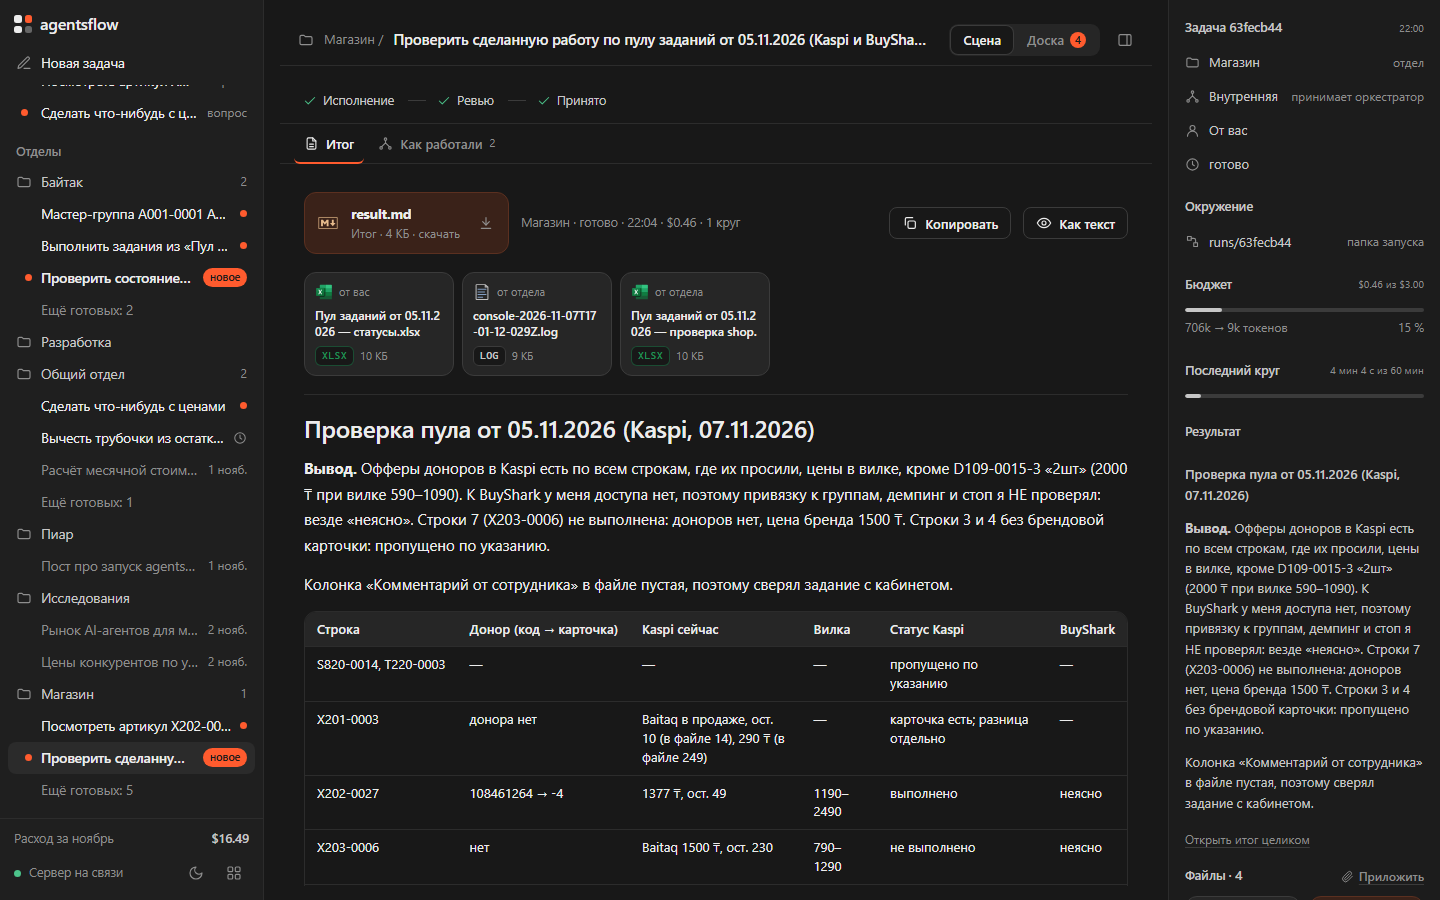
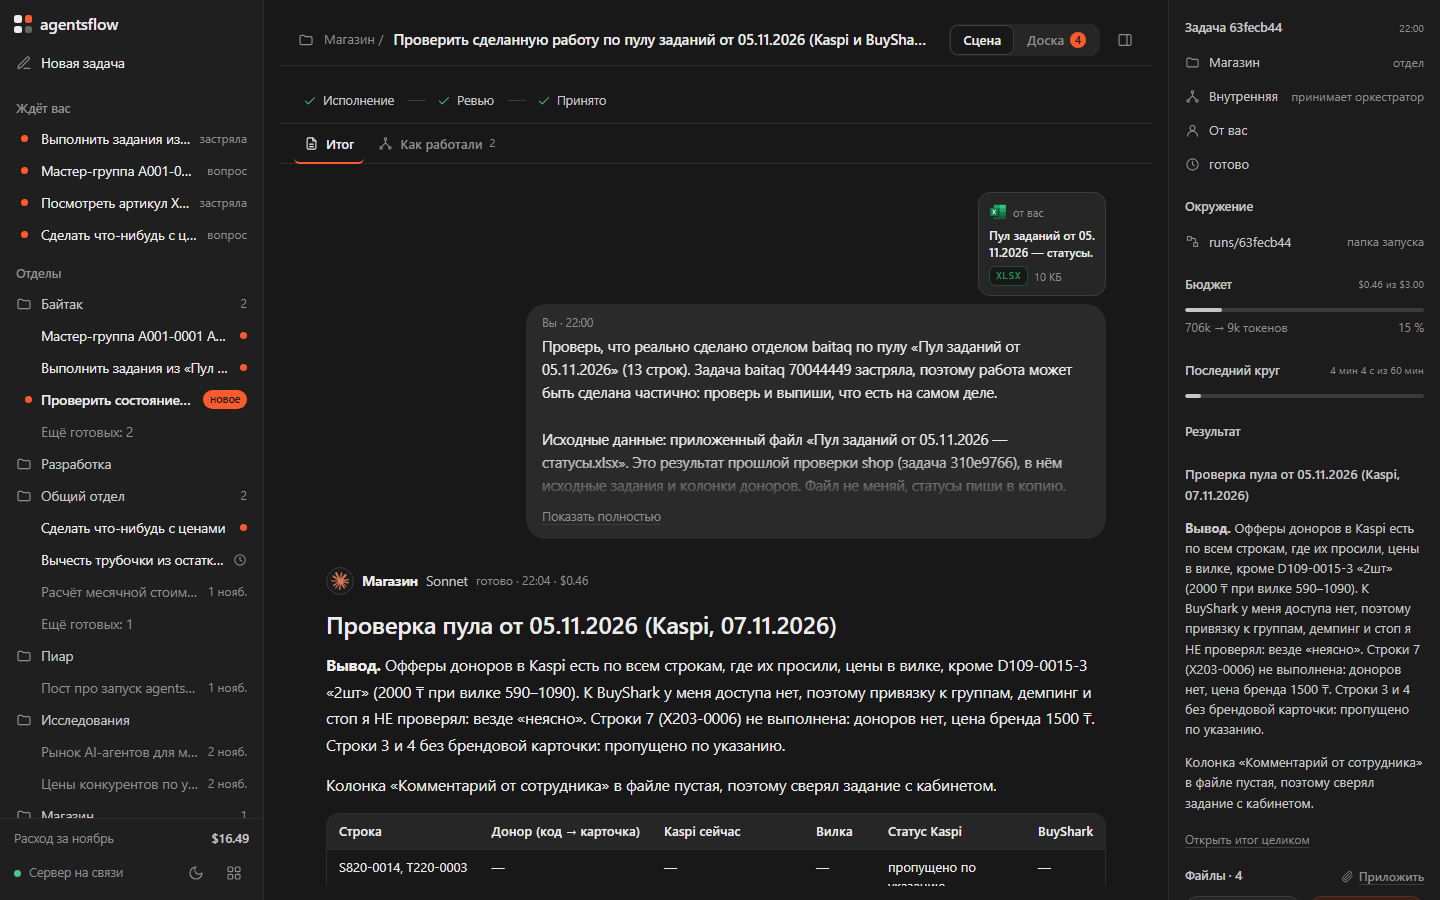
Result tab as a chat, like ChatGPT and Claude
The result no longer shows as "result.md": the request sits in a bubble
on the right with the owner's files, the department's answer follows with
its avatar, tables and headings, then file cards (the result as a
document named after its heading) and a row of actions: copy, download,
how the agents worked. The result downloads under the task's title.

diff --git a/web/index.html b/web/index.html
@@ -707,6 +707,36 @@
   .sc-card.sc-unread .sc-card-t { font-weight: 650; }
   @media (max-width: 880px) { .sc-result { padding: 18px 16px 32px; } .sc-doc-files .sc-att { width: calc(50% - 4px); } }
   @media (prefers-reduced-motion: reduce) { .sc-doc-file:hover { transform: none; } }
+  /* The result as a chat turn: the request bubble, the answer, file cards, actions. */
+  .sc-chat { max-width: 780px; margin: 0 auto; display: grid; gap: 28px; }
+  .sc-turn-ask { display: grid; justify-items: end; gap: 8px; }
+  .sc-ask-files { display: flex; flex-wrap: wrap; gap: 8px; justify-content: flex-end; }
+  .sc-ask-bubble { max-width: min(580px, 88%); background: var(--bubble); border-radius: 20px; padding: 10px 16px 12px; font-size: 14.5px; line-height: 1.6; color: var(--ink); }
+  .sc-ask-from { font-size: 11.5px; color: var(--muted); margin-bottom: 2px; }
+  .sc-ask-text { white-space: pre-wrap; overflow-wrap: anywhere; }
+  .sc-ask-bubble .sc-link { margin-top: 4px; font-size: 12.5px; }
+  .sc-turn-ans { display: grid; gap: 14px; min-width: 0; }
+  .sc-ans-who { display: flex; align-items: center; gap: 8px; flex-wrap: wrap; font-size: 13.5px; }
+  .sc-ans-av { width: 28px; height: 28px; border-radius: 50%; border: 1px solid var(--line-2); background: var(--panel); display: grid; place-items: center; flex: none; }
+  .sc-ans-who span { color: var(--ink-2); }
+  .sc-ans-who small { color: var(--muted); font-size: 12px; }
+  .sc-turn-ans .sc-doc { border-top: 0; padding-top: 0; font-size: 15.5px; line-height: 1.72; }
+  .sc-fcards { display: grid; grid-template-columns: repeat(auto-fill, minmax(320px, 1fr)); gap: 10px; }
+  .sc-fcard { display: flex; align-items: center; gap: 12px; min-width: 0; padding: 12px 14px; border: 1px solid var(--line-2); border-radius: 14px; background: var(--panel); color: var(--ink); text-decoration: none; transition: transform .15s ease, border-color .15s ease, background-color .15s ease; }
+  .sc-fcard:hover { transform: translateY(-1px); border-color: var(--muted); background: var(--hover); }
+  .sc-fcard:focus-visible { outline: 2px solid var(--accent); outline-offset: 2px; }
+  .sc-fcard-ic { flex: none; width: 40px; height: 40px; border-radius: 10px; display: grid; place-items: center; color: #fff; background: #6b6b6b; }
+  .sc-fcard-ic .sc-g { width: 20px; height: 20px; color: #fff; }
+  .sc-fk-sheet { background: #1f8f55; } .sc-fk-doc { background: var(--accent); } .sc-fk-pdf { background: #d0443a; } .sc-fk-image { background: #2f7bd6; } .sc-fk-code { background: #b07a12; }
+  .sc-fcard-t { flex: 1; min-width: 0; display: grid; gap: 1px; }
+  .sc-fcard-t b { font-size: 13.5px; font-weight: 600; line-height: 1.35; overflow-wrap: anywhere; display: -webkit-box; -webkit-line-clamp: 2; -webkit-box-orient: vertical; overflow: hidden; }
+  .sc-fcard-t small { font-size: 12px; color: var(--muted); }
+  .sc-fcard-dl { flex: none; width: 30px; height: 30px; border-radius: 8px; border: 1px solid var(--line-2); display: grid; place-items: center; color: var(--ink-2); }
+  .sc-fcard-dl .sc-g { width: 15px; height: 15px; }
+  .sc-ans-acts { display: flex; gap: 2px; margin-left: -6px; }
+  .sc .sc-act-ib:hover { color: var(--ink); background: var(--hover); }
+  .sc .sc-act-ib .sc-g { width: 16px; height: 16px; }
+  @media (prefers-reduced-motion: reduce) { .sc-fcard:hover { transform: none; } }
 </style>
 </head>
 <body>
@@ -3649,6 +3679,7 @@ function scFileUrl(task, path, inline) {
 // A downloadable tile: the whole tile downloads, the eye opens text, pictures and PDF in a tab.
 function scFileTile(task, f) {
   const name = scBase(f.name), ext = scExt(name), image = ["png", "jpg", "jpeg", "gif", "webp"].includes(ext);
+  const shown = f.kind === "result" ? "Итог задачи" : name;
   const tile = el("div", "sc-att sc-dl" + (f.kind === "result" ? " sc-att-result" : ""));
   tile.title = f.name + " · " + scSize(f.size) + " · " + (SC_FILE_KIND[f.kind] || "");
   if (image) {
@@ -3660,7 +3691,7 @@ function scFileTile(task, f) {
   }
   const foot = el("div", "sc-att-foot"); foot.append(scBadge(name), el("small", "", scSize(f.size)));
   const hit = el("a", "sc-att-hit"); hit.href = scFileUrl(task, f.path); hit.download = name; hit.setAttribute("aria-label", "Скачать " + name);
-  tile.append(el("div", "sc-att-name", name), foot, hit);
+  tile.append(el("div", "sc-att-name", shown), foot, hit);
   const acts = el("div", "sc-att-acts");
   if (SC_VIEWABLE.includes(ext)) {
     const view = el("a", "sc-att-a"); view.href = scFileUrl(task, f.path, true); view.target = "_blank"; view.rel = "noopener";
@@ -3828,6 +3859,31 @@ function scResultTabs(task) {
   }
   if (view === "result") scResult(task);
 }
+// The result as a chat: the request on the right, the department's answer below it,
+// files as cards and a row of actions under the answer, as in ChatGPT and Claude.
+const SC_KIND_NAME = { sheet: "Таблица", pdf: "PDF", image: "Изображение", code: "Код", "": "Файл" };
+function scResultTitle(task, text) {
+  const h = /^\s*#{1,3}\s+(.+)$/m.exec(text || "");
+  return (h ? h[1].replace(/[*`]/g, "").trim() : "") || task.title;
+}
+function scFileCard(task, f, label) {
+  const name = label || scBase(f.name), ext = f.kind === "result" ? "md" : scExt(f.name);
+  const kind = f.kind === "result" ? "doc" : scKindOf(ext);
+  const card = el("a", "sc-fcard"); card.href = scFileUrl(task, f.path); card.download = name;
+  card.title = "Скачать " + name;
+  const ic = el("span", "sc-fcard-ic sc-fk-" + (kind || "file"));
+  ic.append(kind === "image" ? scG("eye") : scG(kind === "sheet" ? "grid" : "doc"));
+  const t = el("span", "sc-fcard-t");
+  t.append(el("b", "", name), el("small", "", [f.kind === "result" ? "Документ" : SC_KIND_NAME[kind] || "Файл", ext ? ext.toUpperCase() : "", scSize(f.size)].filter(Boolean).join(" · ")));
+  const dl = el("span", "sc-fcard-dl"); dl.append(scG("down"));
+  card.append(ic, t, dl);
+  return card;
+}
+function scIconBtn(icon, label, run) {
+  const b = el("button", "sc-ib sc-act-ib"); b.type = "button"; b.append(scG(icon)); b.title = label; b.setAttribute("aria-label", label);
+  b.onclick = () => run(b);
+  return b;
+}
 function scResult(task) {
   const box = $("#sc-result"), w = task.work;
   const files = sc.taskFiles.get(task.id) || [];
@@ -3841,42 +3897,69 @@ function scResult(task) {
       .finally(() => { sc.resultLoading.delete(key); box.dataset.sig = ""; scDirty(); });
   }
   const text = cached && cached.text != null ? cached.text : w.result_summary || "";
-  const sig = key + "|" + (cached ? cached.key + (cached.text || "").length : "-") + "|" + JSON.stringify(files);
+  const lanes = sc.byTask.get(task.id) || [];
+  const sig = key + "|" + (cached ? cached.key + (cached.text || "").length : "-") + "|" + JSON.stringify(files) + "|" + lanes.length;
   if (box.dataset.sig === sig) return;
   box.dataset.sig = sig;
-  const wrap = el("div", "sc-docwrap");
-  const head = el("div", "sc-doc-head");
+  const chat = el("div", "sc-chat");
+
+  // The request: the owner's attachments above a bubble on the right.
+  const ask = el("div", "sc-turn sc-turn-ask");
+  const attached = files.filter(f => f.kind === "attachment");
+  if (attached.length) {
+    const row = el("div", "sc-ask-files");
+    for (const f of attached) row.append(scFileTile(task, f));
+    ask.append(row);
+  }
+  const bubble = el("div", "sc-ask-bubble");
+  const from = { owner: "Вы", orchestrator: "Оркестратор", schedule: "По расписанию" }[w.source] || "Заказ отдела";
+  bubble.append(el("div", "sc-ask-from", from + " · " + scWhen(task.created_ms)));
+  const body = el("div", "sc-ask-text", (task.description || task.title).trim());
+  bubble.append(body);
+  if ((task.description || "").length > 420) {
+    body.classList.add("sc-clamp");
+    const more = el("button", "sc-link", "Показать полностью"); more.type = "button";
+    more.onclick = () => { const open = body.classList.toggle("sc-clamp"); more.textContent = open ? "Показать полностью" : "Свернуть"; };
+    bubble.append(more);
+  }
+  ask.append(bubble);
+  chat.append(ask);
+
+  // The answer: who answered, the text, files, actions.
+  const ans = el("div", "sc-turn sc-turn-ans");
+  const d = scDept(w.department), runsN = (w.runs || []).length, doer = lanes[0];
+  const who = el("div", "sc-ans-who");
+  const av = el("span", "sc-ans-av"); av.append(doer ? scAgentIcon(doer, 18) : scG("folder", 16));
+  who.append(av, el("b", "", d ? d.title : w.department));
+  if (doer) who.append(el("span", "", scName(doer)));
+  who.append(el("small", "", [workStates[w.state] || w.state, scWhen(scFinished(task)), money(w.cost_usd), runsN > 1 ? runsN + " " + scPlural(runsN, "круг", "круга", "кругов") : ""].filter(Boolean).join(" · ")));
+  ans.append(who);
+  ans.append(text ? scDoc(text) : el("p", "sc-doc-empty", cached ? "Итог не найден." : "Загружаю итог…"));
+  const made = files.filter(f => f.kind === "artifact" && !f.name.startsWith("browser/"));
   const resultFile = files.find(f => f.kind === "result");
+  if (made.length || resultFile) {
+    const cards = el("div", "sc-fcards");
+    for (const f of made) cards.append(scFileCard(task, f));
+    if (resultFile) cards.append(scFileCard(task, resultFile, scResultTitle(task, text)));
+    ans.append(cards);
+  }
+  const acts = el("div", "sc-ans-acts");
+  if (text) acts.append(scIconBtn("copy", "Копировать ответ", async b => {
+    try { await navigator.clipboard.writeText(text); b.replaceChildren(scG("check")); setTimeout(() => b.replaceChildren(scG("copy")), 1500); }
+    catch (_) { scToast("Не удалось скопировать"); }
+  }));
   if (resultFile) {
-    const chip = el("a", "sc-doc-file"); chip.href = scFileUrl(task, resultFile.path); chip.download = "result.md";
-    chip.title = "Скачать итог файлом";
-    const t = el("div"); t.append(el("b", "", "result.md"), el("small", "", "Итог · " + scSize(resultFile.size) + " · скачать"));
-    chip.append(scImg("md", 22), t, scG("down"));
-    head.append(chip);
+    const dl = el("a", "sc-ib sc-act-ib"); dl.href = scFileUrl(task, resultFile.path); dl.download = "";
+    dl.title = "Скачать ответ файлом"; dl.setAttribute("aria-label", "Скачать ответ файлом"); dl.append(scG("down"));
+    acts.append(dl);
   }
-  const d = scDept(w.department), runsN = (w.runs || []).length;
-  head.append(el("span", "sc-doc-meta", [d ? d.title : w.department, workStates[w.state] || w.state, scWhen(scFinished(task)), money(w.cost_usd), runsN ? runsN + " " + scPlural(runsN, "круг", "круга", "кругов") : ""].filter(Boolean).join(" · ")));
-  head.append(el("span", "sc-sp"));
-  if (text) {
-    const copy = el("button", "sc-btn"); copy.type = "button"; copy.append(scG("copy"), el("span", "", "Копировать"));
-    copy.onclick = async () => { try { await navigator.clipboard.writeText(text); scToast("Итог скопирован"); } catch (_) { scToast("Не удалось скопировать"); } };
-    head.append(copy);
-  }
-  if (resultFile) {
-    const open = el("a", "sc-btn"); open.href = scFileUrl(task, resultFile.path, true); open.target = "_blank"; open.rel = "noopener";
-    open.append(scG("eye"), el("span", "", "Как текст")); head.append(open);
-  }
-  wrap.append(head);
-  const others = files.filter(f => f.kind !== "result");
-  if (others.length) {
-    const row = el("div", "sc-doc-files");
-    for (const f of others) row.append(scFileTile(task, f));
-    wrap.append(row);
-  }
-  wrap.append(text ? scDoc(text) : el("p", "sc-doc-empty", cached ? "Итог не найден." : "Загружаю итог…"));
+  if (lanes.length) acts.append(scIconBtn("orch", "Как работали агенты", () => { sc.rview.set(task.id, "agents"); scRender(); for (const l of lanes) if (l.dom) scStick(l, true); }));
+  ans.append(acts);
+  chat.append(ans);
+
   const top = box.dataset.task === task.id ? box.scrollTop : 0;
   box.dataset.task = task.id;
-  box.replaceChildren(wrap);
+  box.replaceChildren(chat);
   box.scrollTop = top;
 }
 

diff --git a/crates/gateway/src/server/work.rs b/crates/gateway/src/server/work.rs
@@ -770,10 +770,23 @@ pub(super) async fn download(
     let kind = content_type(&file.name);
     let inline = query.inline
         && (kind.starts_with("image/") || kind.starts_with("text/") || kind == "application/pdf");
+    // The result downloads under the task's title, not as "result.md".
+    let name = match runs.hub().task(&id) {
+        Some(task) if file.kind == "result" => safe_name(&format!(
+            "{}.md",
+            task.title.chars().take(80).collect::<String>()
+        )),
+        _ => file
+            .name
+            .rsplit('/')
+            .next()
+            .unwrap_or(&file.name)
+            .to_owned(),
+    };
     (
         [
             (header::CONTENT_TYPE, kind.to_owned()),
-            (header::CONTENT_DISPOSITION, disposition(&file.name, inline)),
+            (header::CONTENT_DISPOSITION, disposition(&name, inline)),
             (header::X_CONTENT_TYPE_OPTIONS, "nosniff".to_owned()),
             (header::CONTENT_SECURITY_POLICY, "sandbox".to_owned()),
         ],

diff --git a/docs/departments.md b/docs/departments.md
@@ -201,7 +201,7 @@ title = "Утренняя сводка"
 - Лог шлюза (`.agentsflow/server.log` и stderr, то есть journalctl на VPS): создание задач, каждая смена состояния с расходом, запуски отделов, решения и ошибки оркестратора, остановка сервера и паники. Время в логе — UTC.
 - Страница в этом режиме открывается на «Сцене». Слева «Ждёт вас» и отделы с их задачами. В середине агенты выбранной задачи рядом, у каждого своя лента: бриф или то, что передал коллега, «Думал N с» с его мыслями, «Работал · N команд» с командами и их итогом, правки файлов карточками, ответы и вердикт ревьюера. Над агентами полоса шагов (исполнение, ревью, «вернул», исправление, приёмка), справа карточка задачи: отдел, кто принимает, бюджет, время, вопросы, результат, файлы и действия (принять, ещё круг, вернуть с запиской, остановить). На телефоне агенты переключаются вкладками.
 - Писать агенту можно прямо в его ленте, пока задача идёт. Если он занят, записка дойдёт сразу после его текущего хода: агент получит её отдельным ходом и ответит заново с её учётом. Если он ждёт своей очереди, записка уйдёт вместе с его следующим шагом. Записка, до которой очередь не дошла (задача кончилась или сервер перезапустился), помечается «не дошло».
-- «Доска» показывает задачи колонками «В очереди», «В работе», «Ждёт вас», «Готово». Перетащить идущую задачу в очередь — остановить её и вернуть с запиской; результат в «Готово» — принять (для внешней задачи страница переспросит); готовую или застрявшую в очередь — новый круг с запиской. Прямые ссылки: `#task=<id>`, `#board`, `#new`. Готовая задача открывается на вкладке «Итог»: итог документом с таблицами, файл `result.md` для скачивания и файлы задачи плитками; «Как работали» возвращает к агентам. Готовый итог, который вы ещё не открывали, подсвечен слева и на доске меткой «новое»; метка снимается, когда задача пробыла открытой пару секунд (запоминает браузер).
+- «Доска» показывает задачи колонками «В очереди», «В работе», «Ждёт вас», «Готово». Перетащить идущую задачу в очередь — остановить её и вернуть с запиской; результат в «Готово» — принять (для внешней задачи страница переспросит); готовую или застрявшую в очередь — новый круг с запиской. Прямые ссылки: `#task=<id>`, `#board`, `#new`. Готовая задача открывается на вкладке «Итог», как чат: сверху запрос пузырём справа с вашими файлами, ниже ответ отдела с таблицами, под ним файлы карточками (итог скачивается под названием задачи) и кнопки «копировать», «скачать», «как работали». Готовый итог, который вы ещё не открывали, подсвечен слева и на доске меткой «новое»; метка снимается, когда задача пробыла открытой пару секунд (запоминает браузер).
 - Задачи, которые оркестратор заводит на приёмке результата, получают файлы принятой задачи: вложения хозяина, `result.md` и `artifacts/` запуска (без логов браузера). Исполнитель найдёт их во входных данных, оркестратор видит их список в приёмке. Прежняя вкладка «Отделы» с правилами и расписаниями открывается кнопкой с квадратами внизу слева.
 
 ## Сайты с входом
